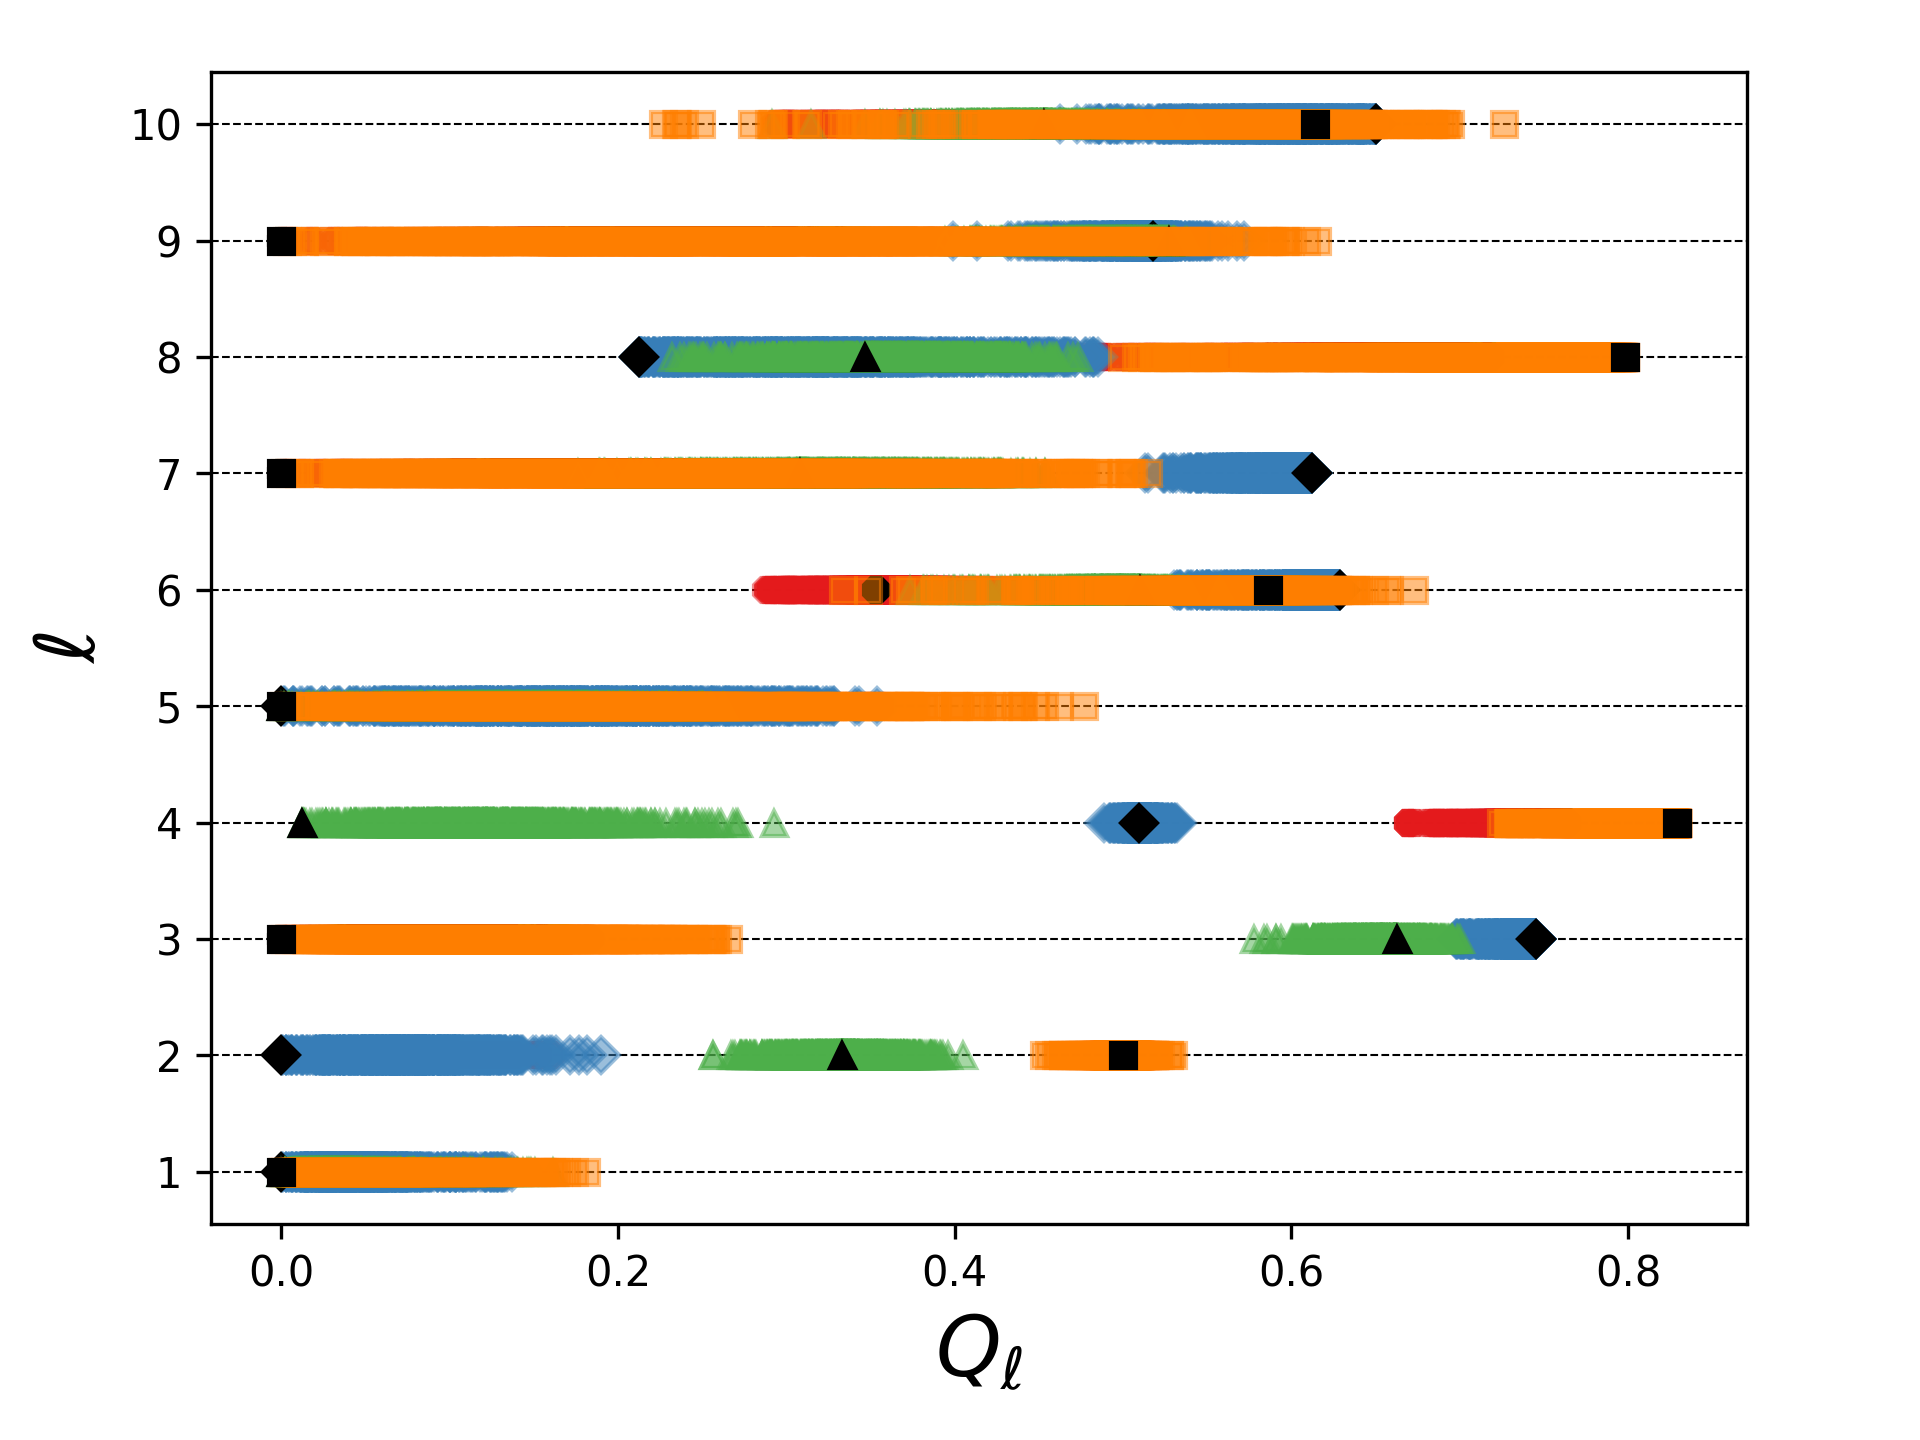
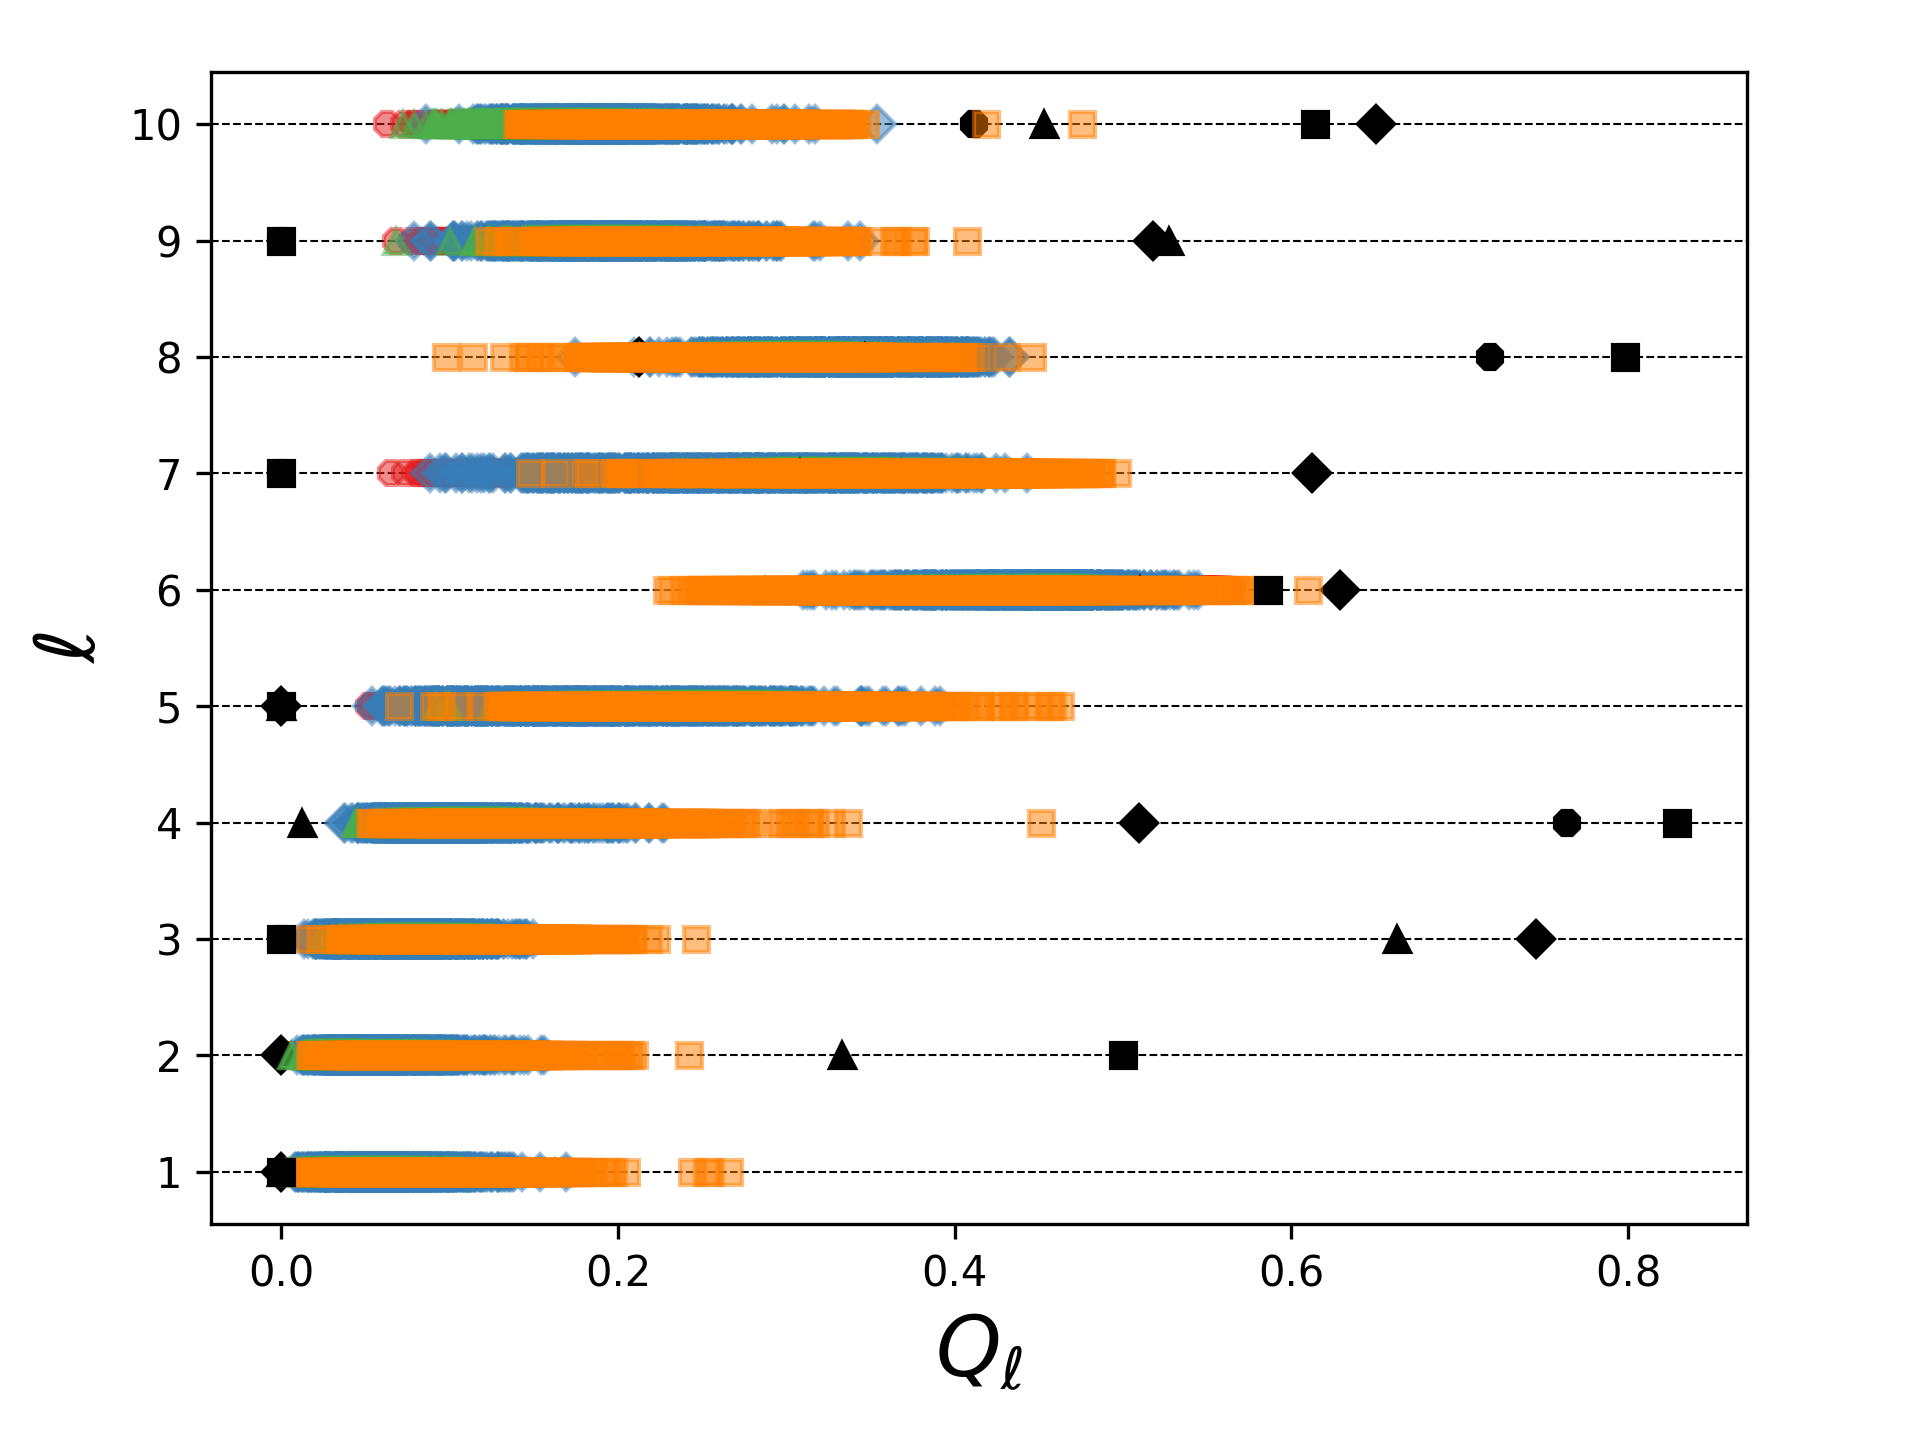
tried using new steinhardt from sims for figures

diff --git a/post_processing/01_plot_Q_vs_Q.py b/post_processing/01_plot_Q_vs_Q.py
@@ -5,16 +5,17 @@ from auxiliary import *
 import matplotlib.pyplot as plt                 
 from numpy import *
 c = ['#E41A1C', '#377EB8', '#4DAF4A', '#FF7F00', '#FFFF33', '#A65628', '#F781BF', '#999999']
-
+Q_names = ['fcc','bcc','hcp','liq']
+Q_path = '../data/from_sim/{}_steinhardt.dat'
 
 ################################################################################
 # Load and process data.                                                       #
 ################################################################################
 
-dr_oct = loadtxt('../data/random_structures/dr_0.dat')
-dr_tet = loadtxt('../data/random_structures/dr_1.dat')
-dr_tri = loadtxt('../data/random_structures/dr_2.dat')
-dr_sqr = loadtxt('../data/random_structures/dr_3.dat')
+#dr_oct = loadtxt('../data/random_structures/dr_0.dat')
+#dr_tet = loadtxt('../data/random_structures/dr_1.dat')
+#dr_tri = loadtxt('../data/random_structures/dr_2.dat')
+#dr_sqr = loadtxt('../data/random_structures/dr_3.dat')
 
 # Panel parameters.
 N = 10
@@ -36,8 +37,8 @@ ax  = fig.add_axes([0.11,0.15,0.8,0.8])
 # Plot.
 for l in range(N):
   plt.axhline(y=l+1, ls='--', c='k', lw=0.5)
-  for y in range(4):
-    Q = loadtxt('../data/random_structures/Q_%d.dat' % y)
+  for y, Q_name in enumerate(Q_names):
+    Q = loadtxt(Q_path.format(Q_name))
     ax.plot(Q[:,l], (l+1)*ones(Q.shape[0]), marker[y], c=c[y], ms=6, alpha=0.5)
     ax.plot(Q0[y,l], (l+1), marker[y], c='k', ms=6)
 
@@ -59,8 +60,8 @@ fig = plt.figure()
 ax  = fig.add_axes([0.12,0.15,0.8,0.8])
 
 # Plot.
-for y in range(4):
-  Q = loadtxt('../data/random_structures/Q_%d.dat' % y)
+for y, Q_name in enumerate(Q_names):
+  Q = loadtxt(Q_path.format(Q_name))
   ax.plot(Q[:,3], Q[:,5], marker[y], c=c[y], ms=7, alpha=0.5)
   ax.plot(Q0[y,3], Q0[y,5], marker[y], c='k', ms=7)
 
@@ -80,8 +81,8 @@ fig = plt.figure(figsize=(15,15))
 for li in range(N):
   for lj in range(N):
     ax  = fig.add_axes([dL0_x+li*L, dL0_y+lj*L, dL, dL])
-    for y in range(4):
-      Q = loadtxt('../data/random_structures/Q_%d.dat' % y)
+    for y, Q_name in enumerate(Q_names):
+      Q = loadtxt(Q_path.format(Q_name))
       ax.plot(Q[:,li], Q[:,lj], marker[y], c=c[y], ms=6)
       ax.plot(Q0[y,li], Q0[y,lj], marker[y], c='k', ms=6)
     ax.set_xticklabels([])

diff --git a/02_train_svm_pca.py b/02_train_svm_pca.py
@@ -12,20 +12,20 @@ from sklearn.utils import shuffle
 ################################################################################
 
 # Load features.
-X_oct = loadtxt('data/random_structures/Q_0.dat')
-X_tet = loadtxt('data/random_structures/Q_1.dat')
-X_tri = loadtxt('data/random_structures/Q_2.dat')
-X_sqr = loadtxt('data/random_structures/Q_3.dat')
+X_fcc = loadtxt('data/from_sim/fcc_steinhardt.dat')
+X_bcc = loadtxt('data/from_sim/bcc_steinhardt.dat')
+X_hcp = loadtxt('data/from_sim/hcp_steinhardt.dat')
+X_liq = loadtxt('data/from_sim/liq_steinhardt.dat')
 
 # Create labels.
-y_oct = 0*ones(X_oct.shape[0],dtype=int)
-y_tet = 1*ones(X_tet.shape[0],dtype=int)
-y_tri = 2*ones(X_tri.shape[0],dtype=int)
-y_sqr = 3*ones(X_sqr.shape[0],dtype=int)
+y_fcc = 0*ones(X_fcc.shape[0],dtype=int)
+y_bcc = 1*ones(X_bcc.shape[0],dtype=int)
+y_hcp = 2*ones(X_hcp.shape[0],dtype=int)
+y_liq = 3*ones(X_liq.shape[0],dtype=int)
 
 # Concatenate features and labels. 
-X = row_stack((X_oct,X_tet,X_tri,X_sqr))
-y = array(concatenate((y_oct,y_tet,y_tri,y_sqr)), dtype=int)
+X = row_stack((X_fcc,X_bcc,X_hcp,X_liq))
+y = array(concatenate((y_fcc,y_bcc,y_hcp,y_liq)), dtype=int)
 
 # Scale and shuffle features.
 scaler = StandardScaler().fit(X)
@@ -33,7 +33,7 @@ X = scaler.transform(X)
 X,y = shuffle(X,y)
 
 # Train SVM classifier.
-clf = LinearSVC(C=1.0)
+clf = LinearSVC(C=1.0, max_iter=2000)
 clf.fit(X,y)
 
 # Save data used to train scaler and SVM. Also saves the classifiers.
@@ -46,8 +46,7 @@ joblib.dump(clf,'data/classifiers/svm.pkl')
 # Train PCA.
 ################################################################################
 
-for y in range(4):
-  X = loadtxt('data/random_structures/Q_%d.dat' % y)
+for y, X in enumerate([X_fcc, X_bcc, X_hcp, X_liq]):
   X = scaler.transform(X)
   pca = PCA().fit(X)
   d = zeros(X.shape[0])

diff --git a/post_processing/04_plot_test.py b/post_processing/04_plot_test.py
@@ -7,7 +7,7 @@ c = ['#E41A1C', '#377EB8', '#4DAF4A', '#FF7F00', '#FFFF33', '#A65628', '#F781BF'
 ################################################################################
 
 # List of structures.
-y_to_str = ['octahedral', 'tetrahedral', 'trigonal_prismatic', 'square']
+y_to_str = ['fcc','bcc','hcp','liq']
 marker = ['8','D', '^', 's']
 
 ################################################################################
